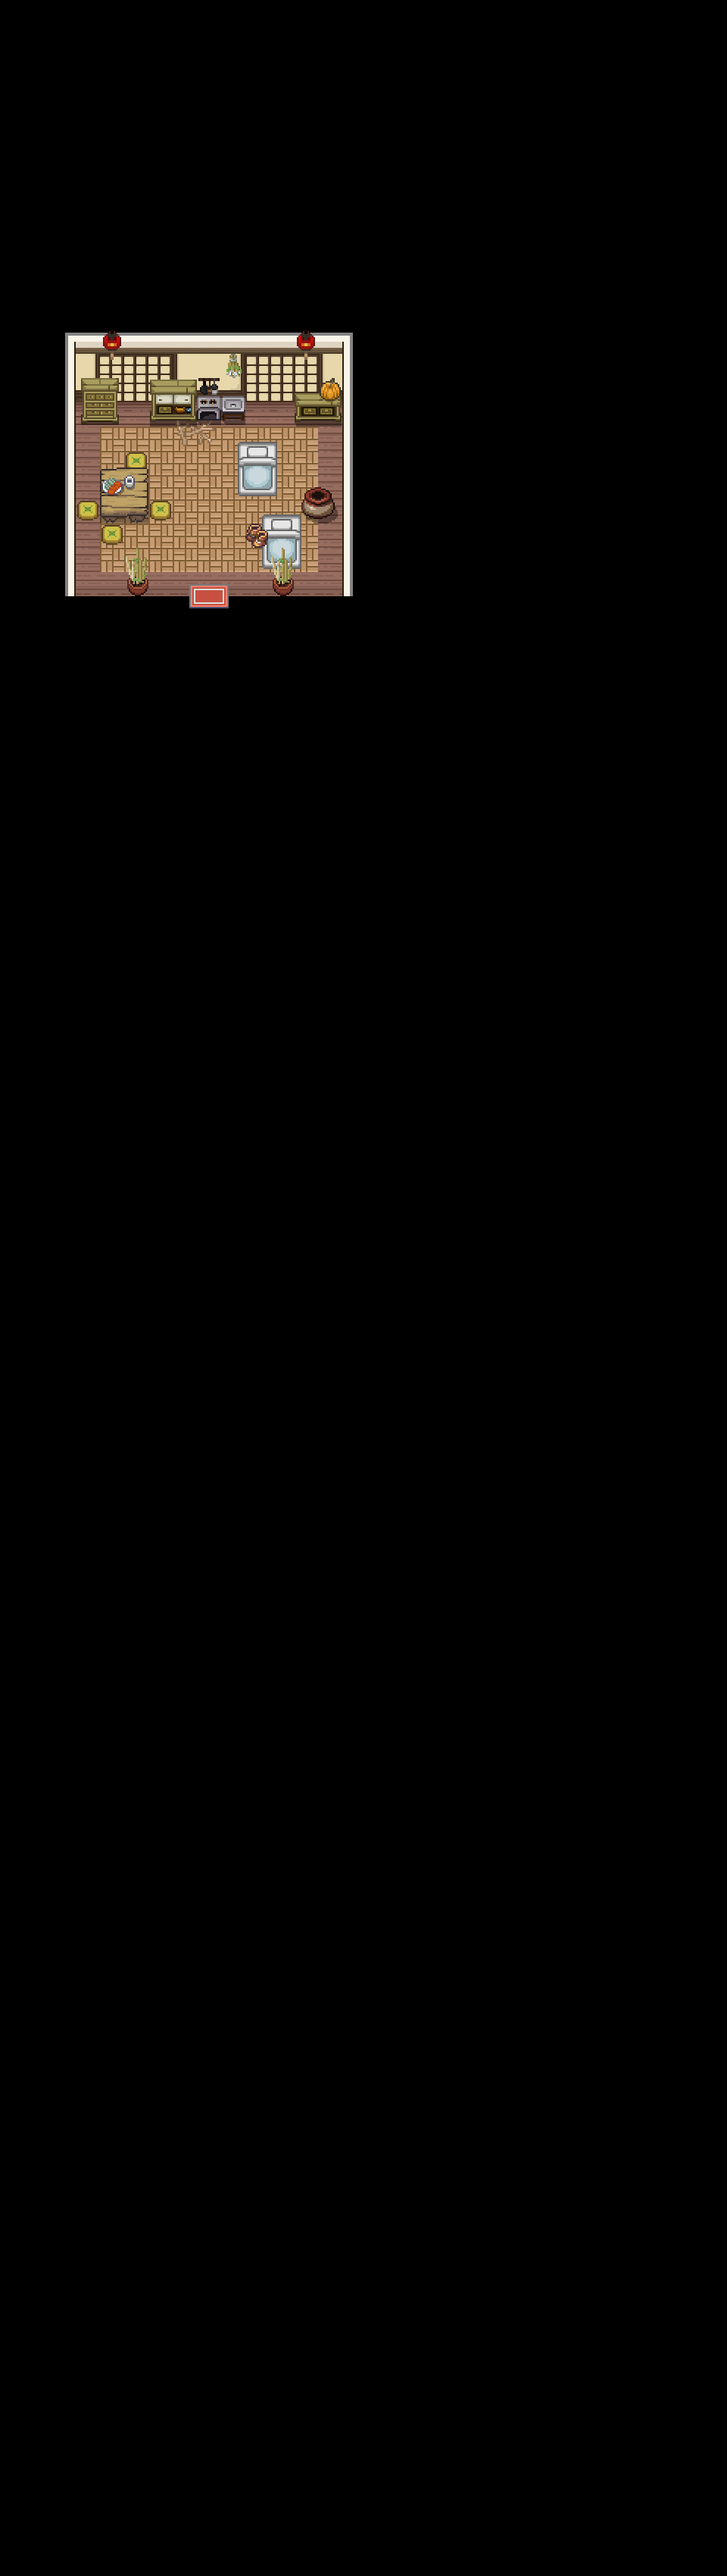
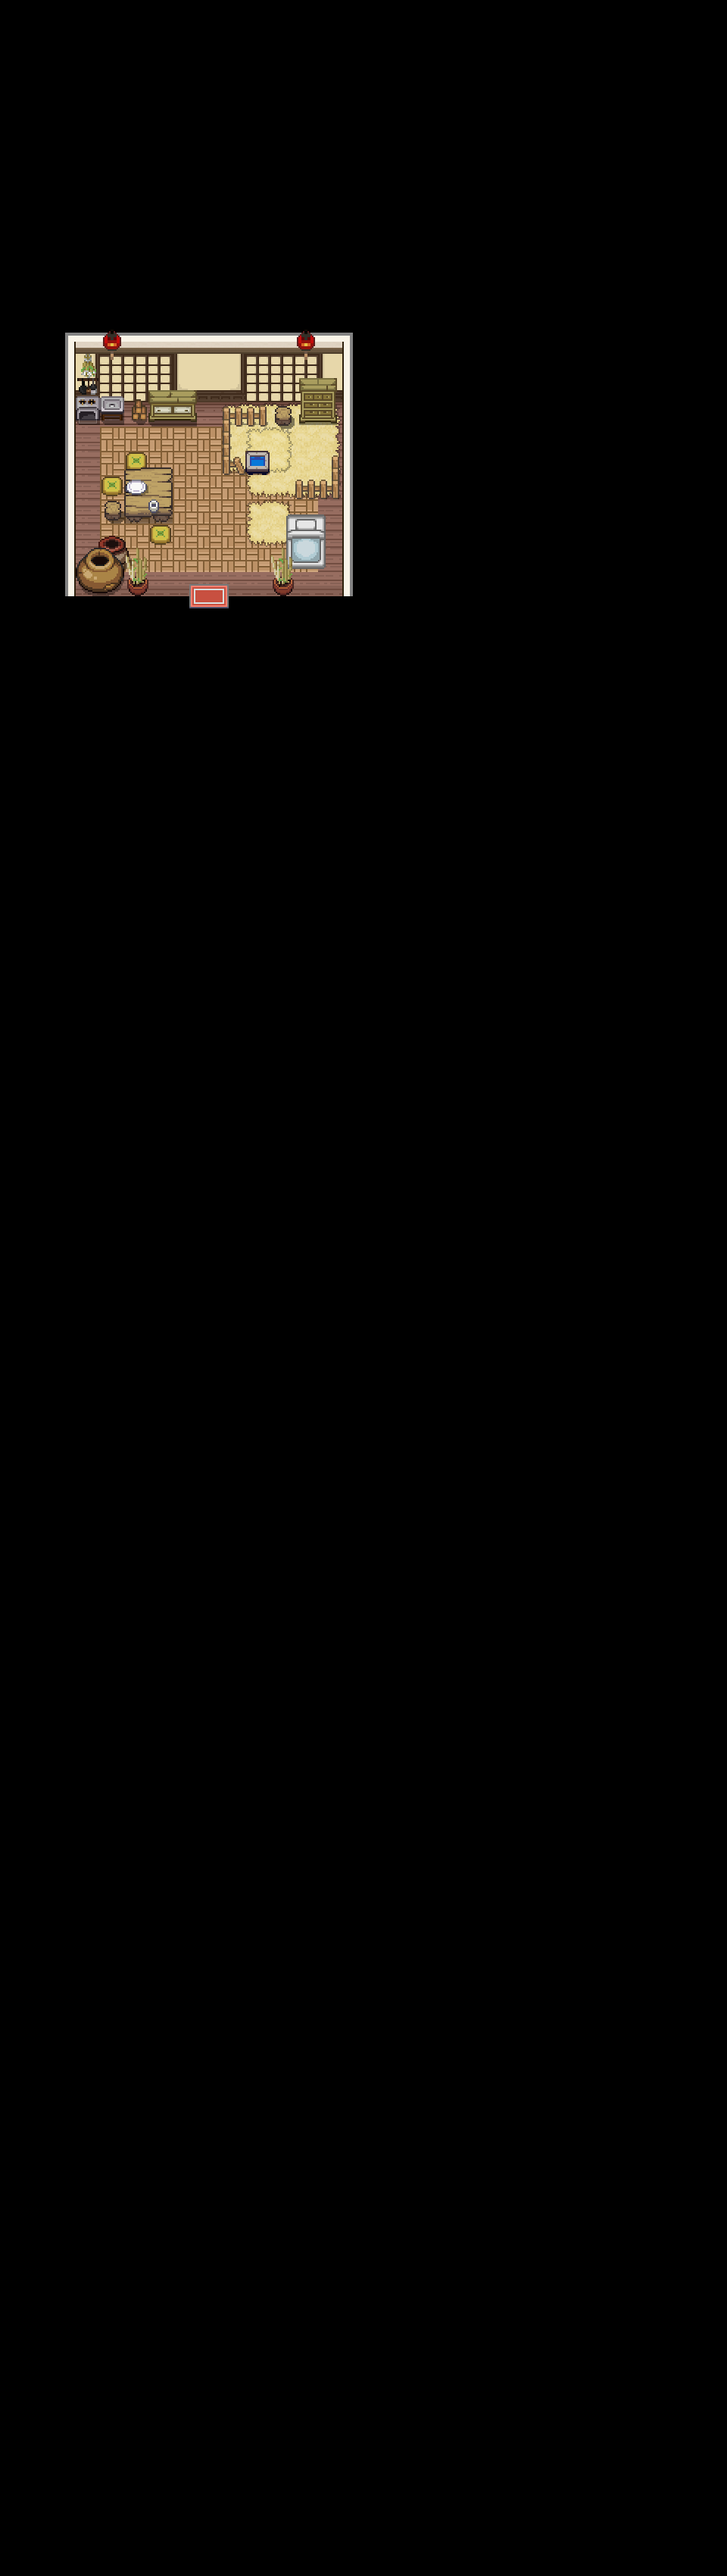
[Commentaire]

Changed region(s): [[0.0938, 0.1247, 0.4688, 0.2494]]

diff --git a/sketch.js b/sketch.js
@@ -10,7 +10,7 @@ let o = -400;
 let u = 0;
 let t = 0;
 let x = 260;
-let y = 590;
+let y = 600;
 let z = 200;
 let Z = 0.2;
 let a = 1;
@@ -62,6 +62,9 @@ function preload() {
   song3 = loadSound("assets/DistantRoads.mp3");
   bg = loadImage("assets/plaine.gif");
   ch = loadImage("assets/chambre.png");
+  chambre1 = loadImage("assets/chambre1.png");
+  chambre2 = loadImage("assets/chambre2.png");
+  chambre3 = loadImage("assets/chambre3.png");
   temple = loadImage("assets/temple.png");
   temple2 = loadImage("assets/temple2.gif");
   temple3 = loadImage("assets/templefeu.gif");
@@ -278,7 +281,7 @@ function draw() {
   let cnv = createCanvas(960, 3400);
   cnv.position(0, N, "relative");
   currentTime = hour();
-
+ console.log(x,y);
   if (isMuted) {
     sliderPosition = 0;
     gainSlider.value(sliderPosition);  
@@ -1368,6 +1371,7 @@ function draw() {
       oldwoman.reset();
       hokusai.reset();
       hokusai1.reset();
+      licataFace.reset();
       taverne2.reset();
       song.playMode("sustain");
       song.pause();
@@ -1403,6 +1407,106 @@ function draw() {
       y -= 5;
     }
 
+    //---lit---///
+
+    if (x >= 362 && x <= 420 && y >= 694 && y <= 705) {
+      x += 5;
+    }
+    if (x >= 354 && x <= 410 && y >= 694 && y <= 705) {
+      x -= 5;
+    }
+    if (x >= 362 && x <= 410 && y >= 694 && y <= 712) {
+      y += 5;
+      
+    }
+    if (x >= 362 && x <= 410 && y >= 682 && y <= 705) {
+      y -= 5;
+     
+    }
+
+    //---table---///
+
+    if (x >= 145 && x <= 225 && y >= 600 && y <= 640) {
+      x += 5;
+    }
+    if (x >= 135 && x <= 215 && y >= 600 && y <= 640) {
+      x -= 5;
+    }
+    if (x >= 145 && x <= 215 && y >= 600 && y <= 650) {
+      y += 5;
+          
+    }
+    if (x >= 145 && x <= 215 && y >= 590 && y <= 640) {
+      y -= 5;
+         
+    }
+
+     //---enclos maison sud---///
+
+    if (x >= 370 && x <= 600 && y >= 620 && y <= 620) {
+      x += 5;
+    }
+    if (x >= 355 && x <= 600 && y >= 620 && y <= 620) {
+      x -= 5;
+    }
+    if (x >= 370 && x <= 600 && y >= 620 && y <= 626) {
+      y += 5;
+          
+    }
+    if (x >= 370 && x <= 600 && y >= 606 && y <= 620) {
+      y -= 5;
+         
+    }
+
+    //---enclos maison sud2---///
+
+    if (x >= 280 && x <= 350 && y >= 580 && y <= 590) {
+      x += 5;
+    }
+    if (x >= 270 && x <= 340 && y >= 580 && y <= 590) {
+      x -= 5;
+    }
+    if (x >= 280 && x <= 340 && y >= 580 && y <= 600) {
+      y += 5;
+          
+    }
+    if (x >= 280 && x <= 340 && y >= 560 && y <= 590) {
+      y -= 5;
+         
+    }
+
+    //---enclos maison ouest---///
+
+    if (x >= 280 && x <= 296 && y >= 200 && y <= 590) {
+      x += 5;
+    }
+    if (x >= 270 && x <= 280 && y >= 200 && y <= 590) {
+      x -= 5;
+    }
+    if (x >= 280 && x <= 280 && y >= 200 && y <= 600) {
+      y += 5;
+          
+    }
+    if (x >= 280 && x <= 280 && y >= 200 && y <= 590) {
+      y -= 5;
+         
+    }
+    //---enclos maison est---///
+
+    if (x >= 426 && x <= 600 && y >= 550 && y <= 620) {
+      x += 5;
+    }
+    if (x >= 412 && x <= 600 && y >= 550 && y <= 620) {
+      x -= 5;
+    }
+    if (x >= 426 && x <= 600 && y >= 550 && y <= 626) {
+      y += 5;
+          
+    }
+    if (x >= 426 && x <= 600 && y >= 540 && y <= 620) {
+      y -= 5;
+         
+    }
     //---MAP2 TRANSFER vers map 1--/
 
     if (y >= 752) {
@@ -2148,8 +2252,18 @@ function map1Affichage() {
       commentInput.style('opacity', '0.65');
       commentInput.style("resize", "none");
       commentInput.style("z-index", "1000");
+      if (FR == 255) {
       commentInput.attribute("placeholder", "N'hésitez pas à laisser un commentaire ici!");
+      }
+      if (EN == 255) {
+      commentInput.attribute("placeholder", "Feel free to leave a comment here!");
+      }
+      if (FR == 255) {
       sendButton = createButton('Envoyer');
+      }
+      if (EN == 255) {
+      sendButton = createButton('Send');
+      }
       sendButton.position(windowWidth/2 - 250, windowHeight/2 + 310, "absolute");
       sendButton.style("font-family", "pkmndp");
       sendButton.style('color', '#e9dcd1');
@@ -2183,6 +2297,25 @@ function map1Affichage() {
     if (!pseudoInput) {
       affichageCommentaires = false; // mettre à jour la variable booléenne
       suppCommentaires();
+    }
+    ///panneau5 Affichage
+    if (x >= 190 && x <= 270 && y >= 2632 && y <= 2680) {
+      noTint();
+      image(img9, 0, y + 150);
+      fill(255, 150);
+      if (FR == 255) {
+        text("Vos actions et vos choix peuvent influer", 484, y + 226);
+        text("sur le comportement des autres habitants.", 484, y + 252);
+        text("Si vous avez mauvaise réputation, certaine", 484, y + 278);
+        text("personnes peuvent devenir très méfiante.", 484, y + 304);
+      }
+      if (EN == 255) {
+        text("Face formidable trainers in", 484, y + 226);
+        text("battles as challenging as they are epic.", 484, y + 252);
+        text("Lead your Pokemon to victory against", 484, y + 278);
+        text("great champions to win their kingdom.", 484, y + 304);
+      }
+
     }
 }
 
@@ -2279,7 +2412,17 @@ function map2CharacterControl() {
     y += 5;
     a = 1;
   }
+  if (y <= 700 && y >= 640){
+  image(chambre2, 86, 439);
+  } 
+  if (y <= 622 ){
+  image(chambre3, 86, 439);
+  }else{
+  image(chambre1, 86, 439); 
+  }
   map2Affichage();
+  
+  
 }
 
 function map2Environnement(){
@@ -2803,6 +2946,7 @@ function openchest() {
   image(playerCoffre, x, y-4);
   image(taverne2,79,2368);
   image(hokusai, 303, 2534);
+  image(licata, 49, 2560);
   tint(255, z);
   image(light2, 33, 2334);
   z += Z;
@@ -2854,6 +2998,7 @@ function openchest() {
     image(playerCoffre, x, y-4);
     image(taverne2,79,2368);
     image(hokusai, 303, 2534);
+    image(licata, 49, 2560);
     tint(255, z);
     image(light2, 33, 2334);
     z += Z;
@@ -2911,6 +3056,8 @@ function mamasan(){
   image(img7, x, y);
   image(taverne2,79,2368);
   image(hokusai, 303, 2534);
+  image(licata1, 49, 2560);
+  image(licata, 49, 2560);
   image(oldwoman2, 181, 2419);
   tint(255, z);
   image(light2, 33, 2334);
@@ -2950,6 +3097,8 @@ function mamasan(){
   image(img7, x, y);
   image(taverne2,79,2368);
   image(hokusai, 303, 2534);
+  image(licata1, 49, 2560);
+  image(licata, 49, 2560);
   image(oldwoman3, 181, 2419);
   tint(255, z);
   image(light2, 33, 2334);
@@ -2986,6 +3135,8 @@ function mamasan(){
   image(img3, x, y);
   image(taverne2,79,2368);
   image(hokusai, 303, 2534);
+  image(licata1, 49, 2560);
+  image(licata, 49, 2560);
   image(oldwoman3, 181, 2419);
   tint(255, z);
   image(light2, 33, 2334);
